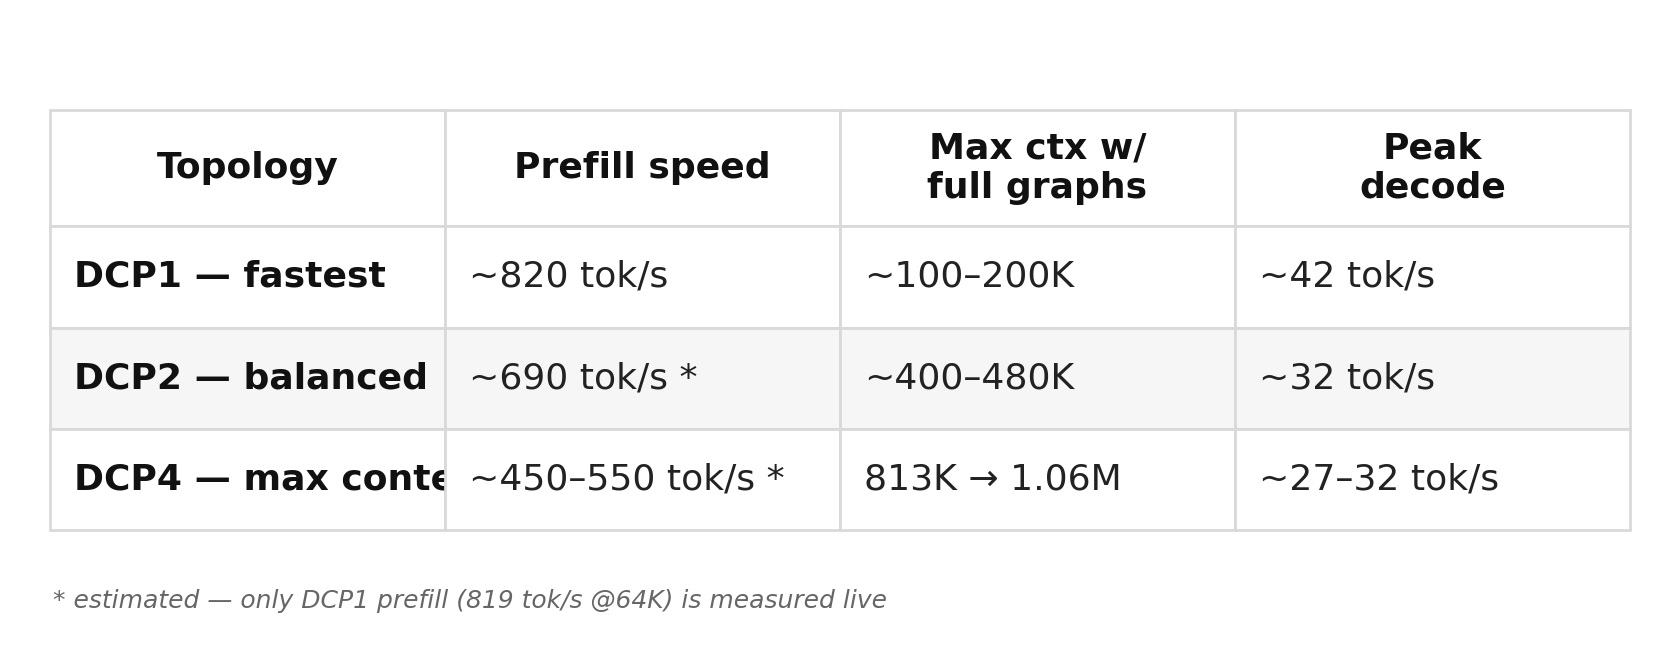
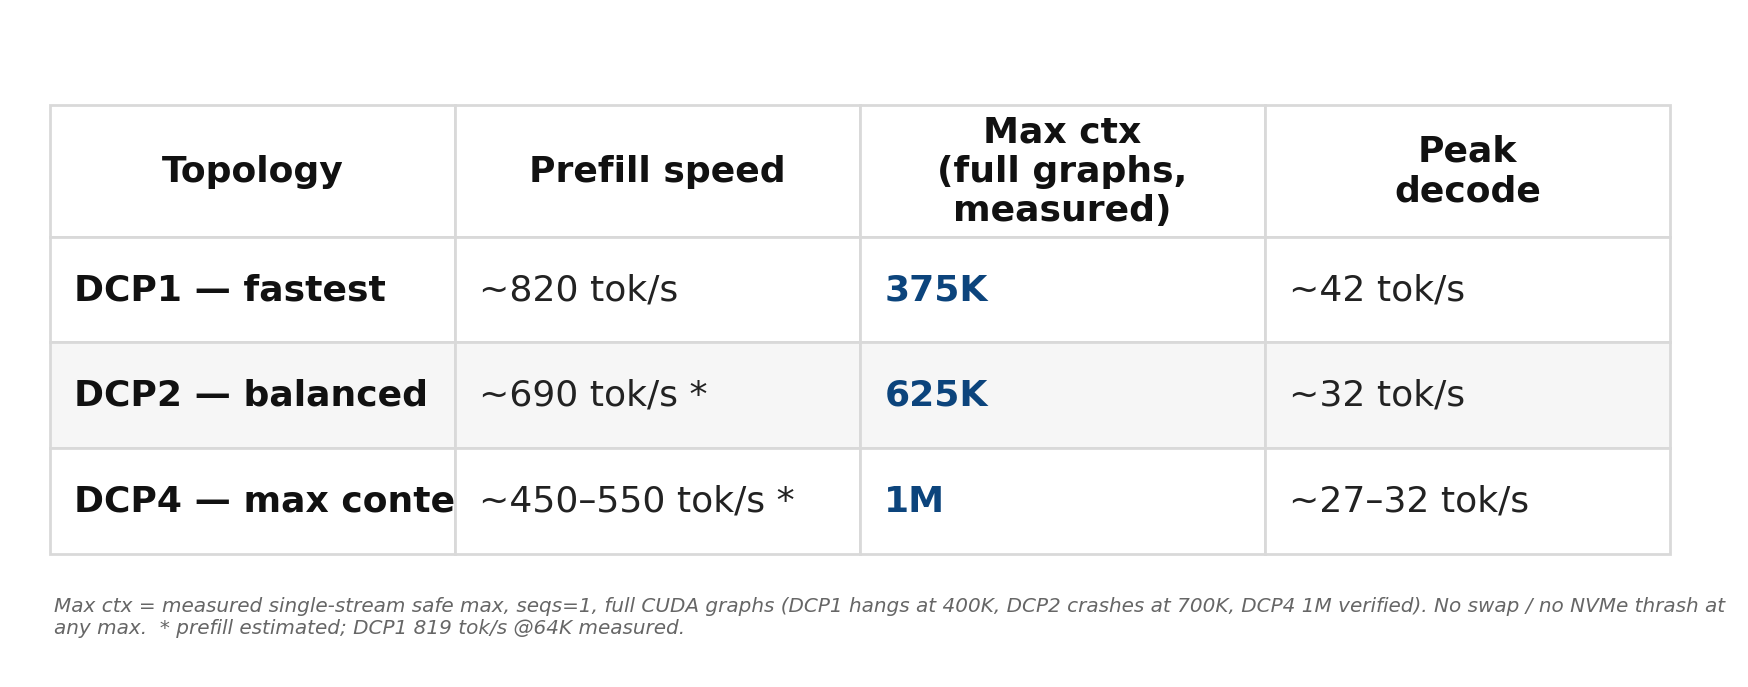
Correct max-context numbers: measured DCP1 375K / DCP2 625K / DCP4 1M
The published ~200K/400K/813K figures were computed (KV_budget / per-token-KV),
never measured, and ignored the unsharded sparse index-cache that actually caps
context. Re-measured to the real clean-boot edge with full CUDA graphs (seqs=1):
DCP1 375K (400K hangs), DCP2 625K (700K crashes), DCP4 1M verified (no swap/NVMe
thrash, memory stable under decode). All three were understated. Updates hero
chart, README topology table, FINDINGS, and HF card.

diff --git a/README.md b/README.md
@@ -8,7 +8,7 @@
 > This is a **working, verified deployment**, not a proposal. The shipping config (DCP1 / 100K)
 > runs live on a 4× DGX Spark cluster, produces **correct output** (verified), and every performance
 > number below is read from **vLLM's own engine logger on the live rig** — nothing modeled, nothing
-> benchmark-gamed. The 1M-context topology (DCP4) is confirmed to load and serve at 813K–1.06M.
+> benchmark-gamed. The 1M-context topology (DCP4) is measured to load and serve at 1M with full CUDA graphs.
 
 Running the full **GLM-5.2** (≈744B total / ≈40B active MoE, DeepSeek Sparse Attention + MLA,
 1,024K native context) on a **desk cluster of 4× NVIDIA DGX Spark** (GB10 Grace-Blackwell,
@@ -80,15 +80,18 @@ credit tonyd2wild) — required for ≥3 concurrent requests when `max_model_len
 Design rule: **full CUDA graphs are mandatory** (decode-speed requirement); each topology's
 production context = the max that still fits full graphs. 1M is a target, never at the cost of speed.
 
-| Topology | per-token KV | Max ctx w/ full graphs | Peak decode | Use |
+| Topology | per-token KV | Max ctx w/ full graphs (measured) | Peak decode | Use |
 |---|---|---|---|---|
-| **DCP1 — fastest** | 31,976 B | ~100–200K | ~42 tok/s | speed |
-| **DCP2 — balanced** | 15,988 B | ~400–480K | ~32 tok/s | balance |
-| **DCP4 — max context** | 7,994 B | **813K → 1.06M** | ~27–32 tok/s | 1M context |
+| **DCP1 — fastest** | 31,976 B | **375K** | ~42 tok/s | speed |
+| **DCP2 — balanced** | 15,988 B | **625K** | ~32 tok/s | balance |
+| **DCP4 — max context** | 7,994 B | **1M** ✅ | ~27–32 tok/s | 1M context |
 
-Per-token KV halves with each DCP doubling; the DCP collective tax on decode is real and inherent
-(more sharding = more per-step all-gather/reduce-scatter = slower decode). Pick your point on the
-speed↔context curve.
+**Max ctx = measured single-stream safe max (seqs=1, full CUDA graphs), verified 2026-07-20.** The edge
+is a clean boot that stays up: DCP1 hangs at 400K, DCP2 crashes at 700K, DCP4 loads and serves at 1M
+(verified — no swap, no NVMe thrash, memory stable under decode). The real ceiling driver is the **sparse
+index-cache, which is NOT sharded by DCP** — so max context scales *sub-linearly* (375K→625K→1M ≈ 1.6× per
+DCP doubling, not 2×). Per-token KV still halves with each DCP doubling; the DCP collective tax on decode
+is real (more sharding = slower decode). Pick your point on the speed↔context curve.
 
 ---
 

diff --git a/FINDINGS.md b/FINDINGS.md
@@ -69,9 +69,16 @@ so max-context-with-graphs scales inversely with per-token KV):
 
 | Option | per-token KV | Max ctx WITH full graphs | Peak decode | Floor | Confirmed |
 |---|---|---|---|---|---|
-| **DCP1 (fastest)** | 31,976 B | ~200-220K | ~40 (no DCP collective) | — | to re-measure (was under-set at 156K) |
-| **DCP2 (balanced)** | 15,988 B | ~400K | ~32 | — | measuring |
-| **DCP4 (max ctx)** | 7,994 B | **813K** | ~32 | 4.9 GB | ✓ CONFIRMED |
+| **DCP1 (fastest)** | 31,976 B | **375K** | ~42 peak | — | ✓ MEASURED 2026-07-20 (400K hangs) |
+| **DCP2 (balanced)** | 15,988 B | **625K** | ~32 | — | ✓ MEASURED (700K crashes, 750K hangs) |
+| **DCP4 (max ctx)** | 7,994 B | **1M** | ~27-32 | ~1.2 GB free | ✓ MEASURED w/ full graphs (no swap/thrash) |
+
+**Max-context correction (2026-07-20):** the earlier ~200K/400K/813K figures were computed as
+`KV_budget ÷ per-token-KV` — a KV-only model that ignored the **sparse index-cache + graph-capture
+memory** (~46 GB at 500K, measured), which is the actual ceiling driver and is **NOT sharded by DCP**.
+Re-measured to the real clean-boot edge with full graphs, seqs=1. All three were understated. Context
+scales sub-linearly with DCP (375K→625K→1M ≈ 1.6×/doubling). Swap is OFF on all nodes and NVMe reads are
+~0 during decode at every max — no swap or SSD thrash. Failure modes at the edge: hang / worker-crash / OOM.
 
 Graphs beat eager on every axis except raw context: DCP4-800K-graphs (32 peak, 4.9GB floor) >
 DCP4-1M-eager (27 peak, 2.1GB floor). Note: graphs cut kernel-LAUNCH overhead (big win at low